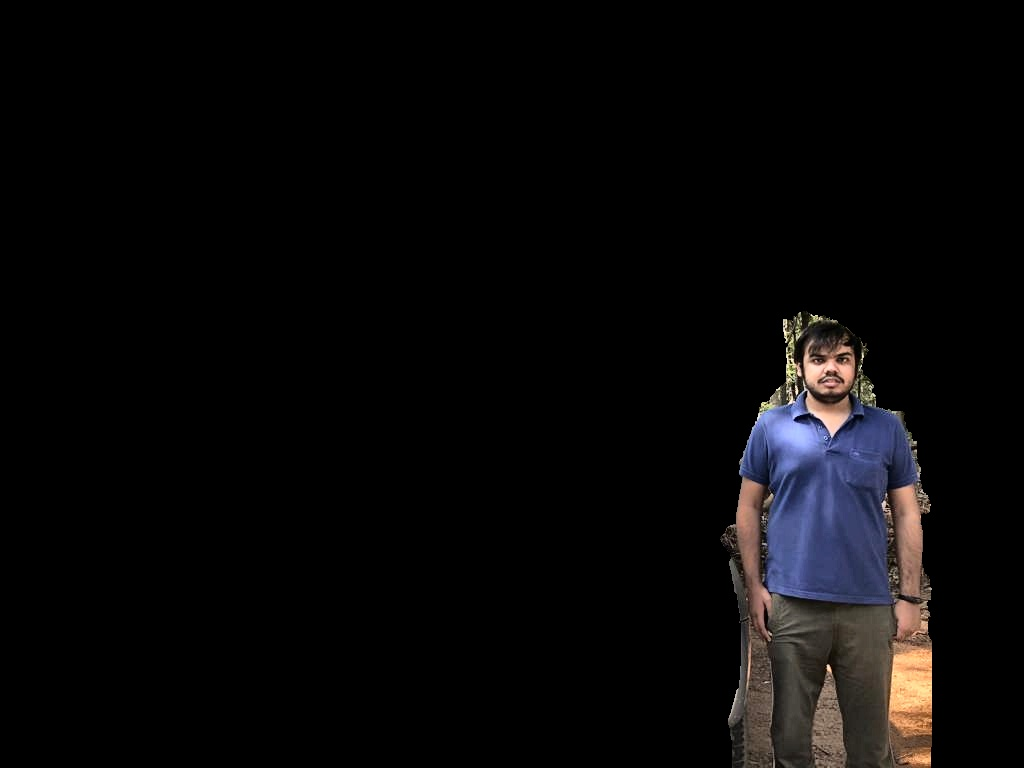
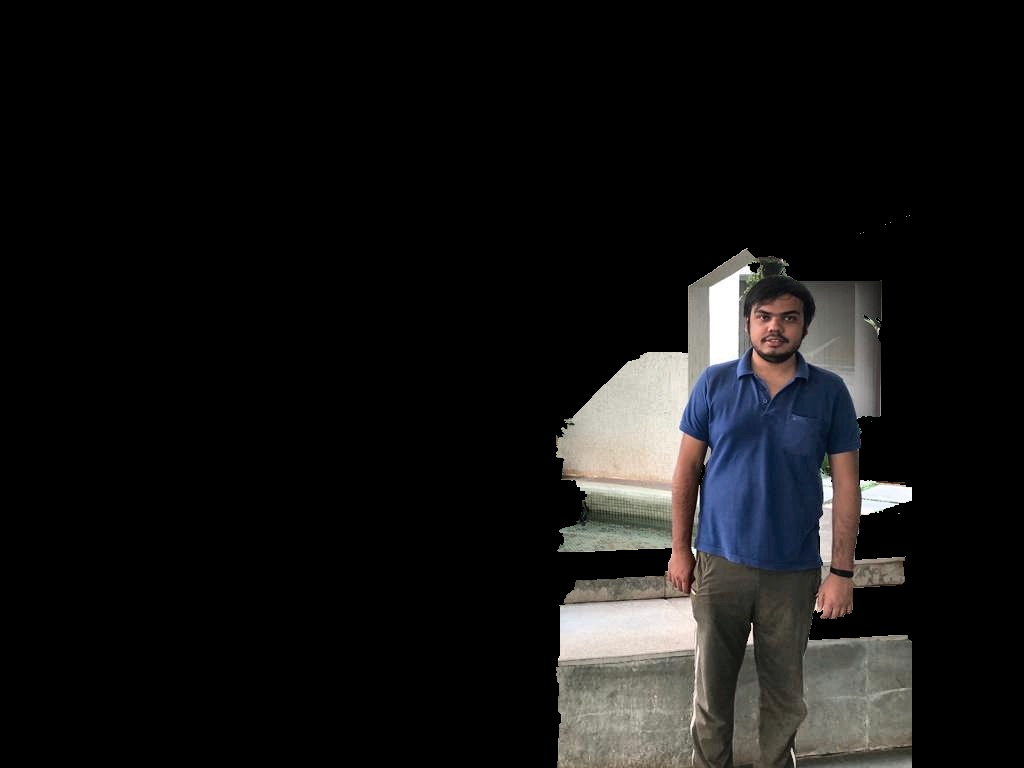
updated grabcut function
this commit merges the output of grabcut function with the original image

Changed region(s): [[0.5312, 0.3125, 0.9375, 1.0]]

diff --git a/lib/util.py b/lib/util.py
@@ -1,4 +1,4 @@
-import cv2 
+import cv2,sys
 import cv2 as cv
 import numpy as np
 
@@ -26,15 +26,22 @@ def detect_body(img):
 #    list1=[]
     dist=0
     for (x,y,w,h) in faces:
-        x1 = int(x-int(2.2*w))
+        x1 = int(x-int(1.5*w))
+        if x1<0:
+            x1=0
         y1 = int(y-h)
+        if y1<0:
+            y1=0
         x2 = x+int(2.2*w)
+        if x2>img.shape[1]:
+            x2=img.shape[1]
         y2 = img.shape[0]
         area = ((x2-x1) * (y2-y1))
         if dist < area:
             dist = area
             list1 = [(x1,y1,x2,y2,w,h)]
     img = cv2.rectangle(img,(list1[0][0],list1[0][1]),(list1[0][2],list1[0][3]),(255,0,0),2)
+    img = cv2.rectangle(img,(x,y),(x+w,y+h),(255,0,0),2)
     return list1,img
 
 
@@ -111,9 +118,10 @@ def draw_keypoints(img, kp):
 	return img
 
 def transform_points(pt1, homography_matrix):
-	new_points = cv2.perspectiveTransform(pt1, homography_matrix)
-	new_points = new_points.reshape((new_points.shape[0], new_points.shape[2]))
-	return new_points
+    new_points = cv2.perspectiveTransform(pt1, homography_matrix)
+    new_points[new_points <0] = 0
+    new_points = new_points.reshape((new_points.shape[0], new_points.shape[2]))
+    return new_points
 
 def sort_order(img1,img2,body1,body2):
     col_start = body1[0][2]
@@ -130,19 +138,9 @@ def sort_order(img1,img2,body1,body2):
 
 def grabcut(img1,img2,body1,body2):
 
-    w1 = body1[0][4]
-    h1 = body1[0][5]
-    a1 = body1[0][0]
-    b1 = body1[0][1]
-    c1 = body1[0][2]
-    d1 = body1[0][3]
+    a1,b1,c1,d1,w1,h1 = body1[0]
+    a2,b2,c2,d2,w2,h2 = body2[0]
     
-    w2 = body2[0][4]
-    h2 = body2[0][5]
-    a2 = body2[0][0]
-    b2 = body2[0][1]
-    c2 = body2[0][2]
-    d2 = body2[0][3]
     mask = np.zeros(img1.shape[:2],np.uint8)
     bgdModel = np.zeros((1,65),np.float64)
     fgdModel = np.zeros((1,65),np.float64)
@@ -150,30 +148,39 @@ def grabcut(img1,img2,body1,body2):
         foreground = img1.copy()
         background = img2.copy()
         rect = (a1,b1,c1,d1)
-        for i in range(a1,c1-1):
-            for j in range(b1,d1-1):
+        for i in range(a1,c1):
+            for j in range(b1,d1):
                 mask[j,i] = cv2.GC_PR_FGD
-        for i in range(a1+int(2.2*w1),c1-int(2.2*w1)):
-            for j in range(b1+h1,b1+2*h1):
+        for i in range(a1+w1,c1-w1):
+            for j in range(b1+h1,b1+int(1*h1)):
                 mask[j,i] = cv2.GC_FGD
         cv2.grabCut(foreground, mask,rect,bgdModel,fgdModel,1,cv2.GC_INIT_WITH_MASK)
         mask2 = np.where((mask==2)|(mask==0),0,1).astype('uint8')
         img = foreground*mask2[:,:,np.newaxis]
-        cv.imwrite("foregroundcut.jpg",img)
+        return img
     else:
         foreground = img2.copy()
         background = img1.copy()
         rect = (a2,b2,c2,d2)
         for i in range(a2,c2):
             for j in range(b2,d2):
+#                sys.stdout.write('%s %s\r' %(i,j))
                 mask[j,i] = cv2.GC_PR_FGD
-        for i in range(a2+int(2*w2),c2-int(2*w2)):
-            for j in range(b2+h2,b2+2*h2):
+#                sys.stdout.flush()
+        for i in range(a2+w2,c2-w2):
+            for j in range(b2+h2,b2+int(1*h2)):
                 mask[j,i] = cv2.GC_FGD
         cv2.grabCut(foreground, mask,rect,bgdModel,fgdModel,1,cv2.GC_INIT_WITH_MASK)
         mask2 = np.where((mask==2)|(mask==0),0,1).astype('uint8')
         img = foreground*mask2[:,:,np.newaxis]
-        cv.imwrite("foregroundcut.jpg",img)
+        op_image = np.zeros(img1.shape)
+        for i in range(op_image.shape[0]):
+            for j in range(op_image.shape[1]):
+                if img[i,j,1]==0:
+                    op_image[i,j]=background[i,j]
+                else:
+                    op_image[i,j]=foreground[i,j]
+        return op_image
 
 def alpha_blend(img1, img2, body1, body2):
     op = np.zeros(img1.shape)

diff --git a/main.py b/main.py
@@ -5,8 +5,8 @@ from lib.util import *
 #some error with homography
 #check
 
-Image_1 = cv2.imread("dataset/im3_1.jpeg")
-Image_2 = cv2.imread("dataset/im3_2.jpeg")
+Image_1 = cv2.imread("dataset/im1_1.jpeg")
+Image_2 = cv2.imread("dataset/im1_2.jpeg")
 
 x,y,_ = Image_1.shape
 Image_2 = cv2.resize(Image_2,(y,x))
@@ -57,7 +57,7 @@ new_points= new_points.astype(int)
 a,b = new_points[0]
 c,d = new_points[-1]
 body_1_homographed = [(a,b,c,d,w,h)]
-op_image = alpha_blend(homography_warped_1,Image_2,body_1_homographed,body_2)
-grabcut(homography_warped_1,Image_2,body_1_homographed,body_2)
-cv2.imwrite("trial_outputs/im3_op.jpg", op_image)
+#op_image = alpha_blend(homography_warped_1,Image_2,body_1_homographed,body_2)
+op_image = grabcut(homography_warped_1,Image_2,body_1_homographed,body_2)
+cv2.imwrite("trial_outputs/im1_op_grabcut.jpg", op_image)
 
